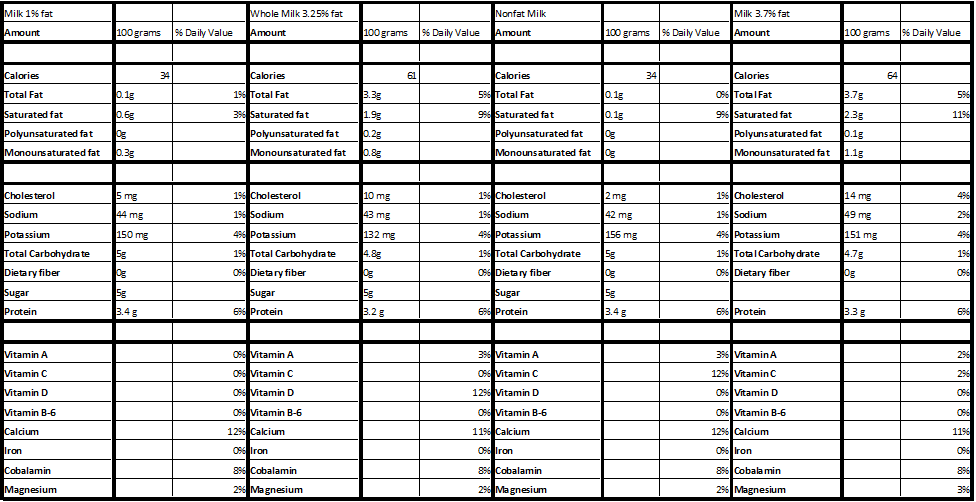
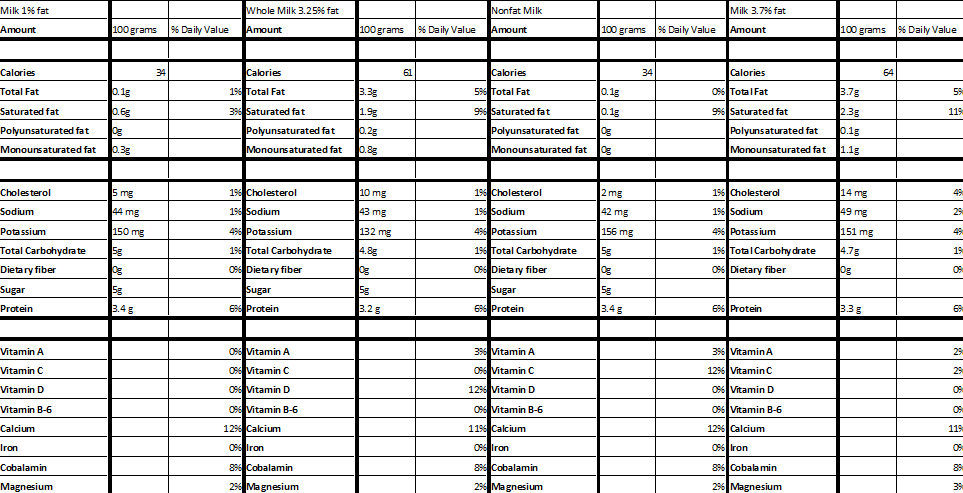
small changes exespt to the css where i changed the side bar and the top to look bigger and better for other resolutions

diff --git a/css.css b/css.css
@@ -7,6 +7,7 @@ body {
 
 h2 {
   background-color: black;
+
 }
 
 u {
@@ -26,34 +27,35 @@ g{
 .top h2{
   color: white;
   width: 100%;
-  height: 5% ;
+  height: 7% ;
   position: fixed;
   padding-right: 90%;
   padding-left: 50%;
   padding-bottom: .5%;
   margin-top: 0;
-  top: 0;
+  top: 2%;
   text-align: left;
   z-index: 2;
+  left: -5%;
 }
 
 .top{
   background-color: black;
   font-family:sans-serif;
-  font-size: 175%;
+  font-size: 200%;
 }
 
 .milkmode u{
   font-family: sans-serif;
-  font-size: 150%;
+  font-size: 130%;
   text-decoration: none;
   background-color: none ;
   height: 100%;
-  width: 70%;
+  width: 35%;
   position: absolute;
-  left: 15%;
-  top: 10%;
-  z-index: 1;
+  left:37.4%;
+  top: 27%;
+  z-index: 0;
   text-decoration: none;
   color: white;
   text-shadow: 2px 2px grey;
@@ -82,20 +84,19 @@ g{
   width: 12.5%;
   position: fixed;
   z-index: 3;
-  top: 0;
-  right: 0;
+  top: 1;
+  right: 1;
   background-color: black;
   overflow-x: hidden;
-  padding-top: 2%;
-  top: 1%;
-  left: 1%;
+  padding-top: 3%;
 }
 
 
+
 .sidebar a {
-  padding: 4% 1% 3%;
+  padding: 1% 1% 5% 6%;
   text-decoration: none;
-  font-size: 150%;
+  font-size: 24px;
   color: #afb4bc;
   display: block;
   font-family: sans-serif;
@@ -105,4 +106,14 @@ g{
 .sidebar a:hover {
   color: white;
   text-shadow: 2px 2px #787f8c;
+}
+
+.black{
+  background-color: black;
+  height: 3%;
+  width: 100%;
+  top: 0;
+  left: 0;
+  position: fixed;
+  z-index: 1;
 }

diff --git a/forthpage.html b/forthpage.html
@@ -32,7 +32,8 @@
    <u>Cows are milked using vacuum cups which are attached to the cow's teats. The milk is sent through stainless steel pipes to large refrigerated vats, then stored at 5°C or less. Within 48 hours, milk is taken in tankers to a milk factory where it's pasteurised and homogenised.
    </u>
   </div>
-
+	<div class="black">
+  </div>
 	<img src="imagegohere.png" style="position: relative ; left: 20%; padding-top: 30%; height: 40%; width: 40%">
 	<img src="cowpattern1.png" style="position: absolute ; top: 0; left: 0;height: 150%; width: 100%; z-index: -13;">
 	<div class="bar2">

diff --git a/index.html b/index.html
@@ -32,11 +32,12 @@
    </u>
   </div>
 
-	<img src="imagegohere.png" style="position: relative ; padding-bottom: 10%; left: 10%; padding-top: 40%; height: 40%; width: 40%">
+	<img src="imagegohere.png" style="position: relative ; padding-top: 30%; padding-bottom: 10%; left: 10%; height: 30%; width: 30%">
 		<img src="cowpattern1.png" style="position: absolute ; top: 0; left: 0;height: 150%; width: 100%; z-index: -13;">
 		<div class="bar2">
 		</div>
-
+		<div class="black">
+	  </div>
 <div class="bar">
     <h2></h2>
   </div>

diff --git a/thirdpage.html b/thirdpage.html
@@ -41,10 +41,11 @@
   </div>
 
 	<img src="cowpattern1.png" style="position: absolute ; top: 0; left: 0;height: 150%; width: 100%; z-index: -13;">
-<img src="milktable.PNG"	style="position: relative ; left: 20%; padding-top: 35%; height: 40%; width: 40%">
+<img src="milktable.PNG"	style="position: relative ; left: 20%; padding-top: 45%; height: 60%; width: 60%">
 
 
-
+<div class="black">
+</div>
 </body>
 </div>
 </html>

diff --git a/secondpage.html b/secondpage.html
@@ -37,7 +37,8 @@
   </div>
 	<div class="bar2">
   </div>
-
+	<div class="black">
+  </div>
 	<img src="cowpattern1.png" style="position: absolute ; top: 0; left: 0;height: 150%; width: 100%; z-index: -13;">
 <img src="Cow3.jpg" style="position: relative ; left: 20%; padding-top: 30%; height: 40%; width: 40%">
 

diff --git a/about.html b/about.html
@@ -37,7 +37,8 @@
   </div>
 	<div class="bar2">
   </div>
-
+	<div class="black">
+  </div>
 	<img src="cowpattern1.png" style="position: absolute ; top: 0; left: 0;height: 150%; width: 100%; z-index: -13;">
 
 

diff --git a/Homepage.html b/Homepage.html
@@ -42,7 +42,8 @@
     <h2></h2>
   </div>
 
-
+	<div class="black">
+  </div>
 
 
 </body>
